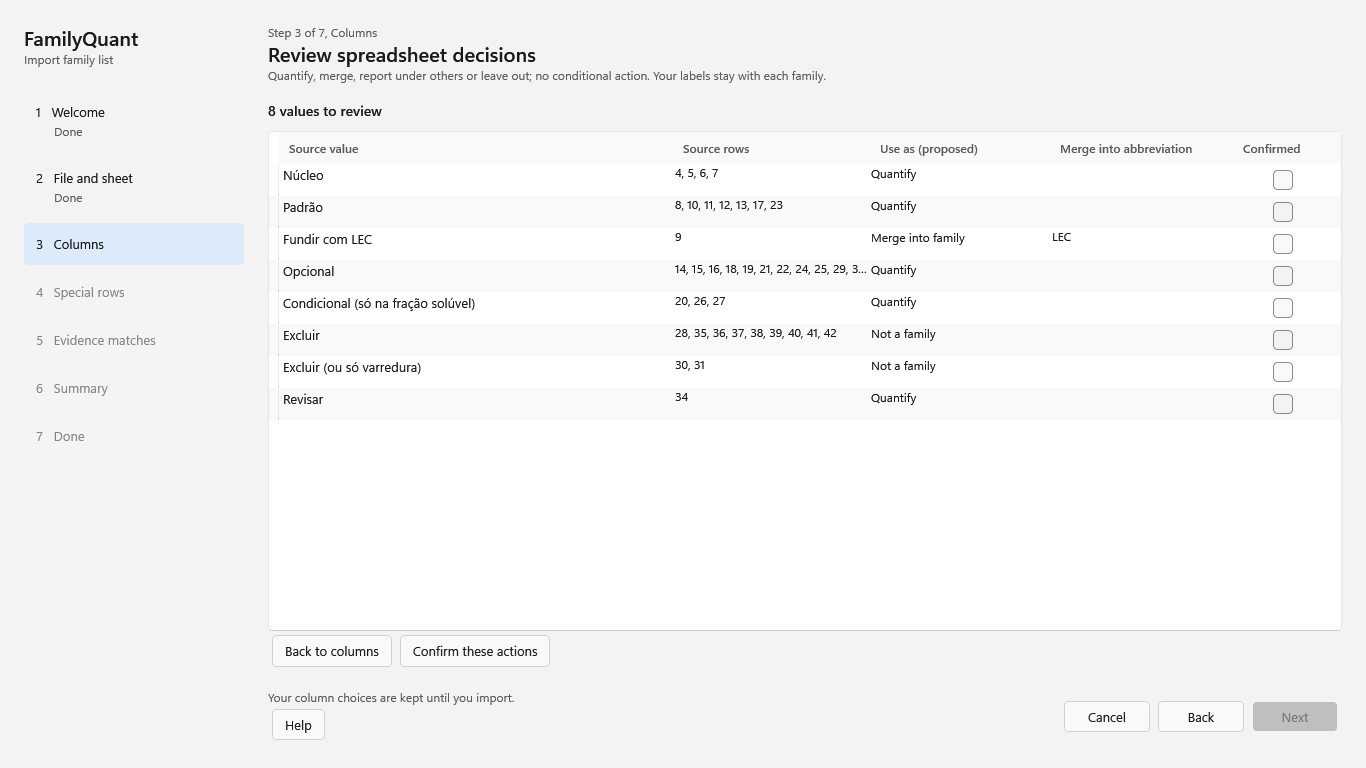
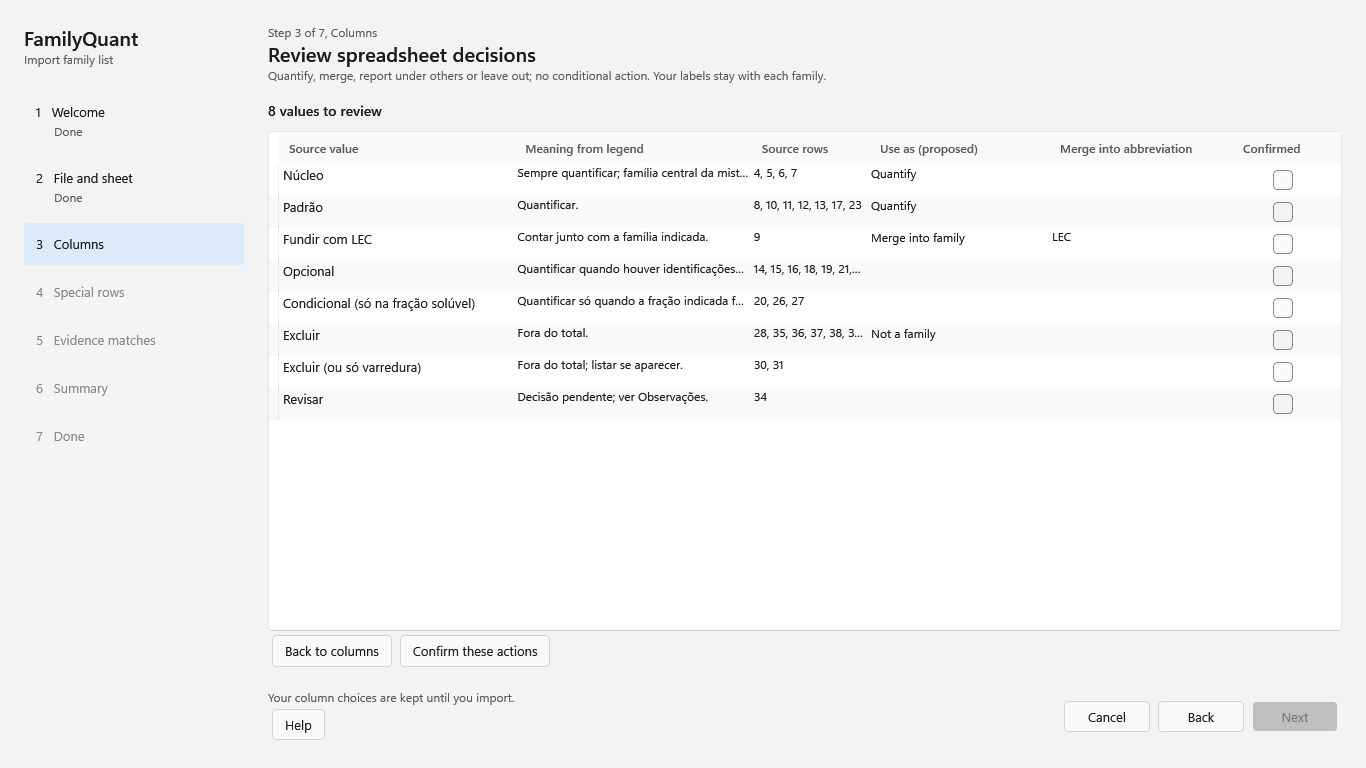
Z16a8 The import chapter follows the Z16a3 workbook pages, with their pictures taken
On fq/v2111-site after merging FQHome's approved Z16a3 ce9e0c6d. The capture now reads the example through the same
whole-workbook source as File > Import family list (FamilyListWorkbookCoreSource), so the pictures show what a user
sees on the six-sheet example.

What the wizard shows, and the chapter now says: File and sheet opens on Workbook sheets (Use as, Kept as, Review,
Why this role; Use selected family sheet; the line naming the family list and whether legend names and decision
meanings were read; Notes kept, Read kept notes, Kept notes preview). The legend's own text is kept with the three notes
sheets (four source notes). Sheet preview is the second tab. Because the legend's labels are the values of Decisao
FamilyQuant, that column and Sigla as the colour column are proposed for you, and Next opens Review spreadsheet
decisions at once: Meaning from legend beside each line; Nucleo and Padrao proposed as Quantify, Excluir as Not a family,
Fundir com LEC as Merge into family LEC; Opcional, Condicional, Excluir (ou so varredura) and Revisar left empty; nothing
confirmed. Back to columns shows the colours starting with the legend names (light turquoise as Nucleo), plain names
for the two colours the legend names twice. The decision-column question is now described for workbooks without such a
legend. Colour meanings are not shown on Columns, so the chapter no longer says they are.
[…]

diff --git a/FamilyQuant/FamilyListImportGuide.cs b/FamilyQuant/FamilyListImportGuide.cs
@@ -24,9 +24,10 @@ public static class FamilyListImportGuide
     public const string Title = "Import family list";
 
     // Z16a8 picture spots. The text below was written against the workbook contract (Z16a1, 8cf2a257) and FQHome's seam
-    // for Z16a3 and Z16a9, before those wizard pages landed. Every spot marked PICTURE Z16a8 (a new picture, its section
-    // has no image yet) or RETAKE Z16a8 (the page changes with the workbook) is taken again by --import-guide-screens on
-    // the merged wizard, and the words of that section are checked against what the page shows.
+    // for Z16a3 and Z16a9, before those wizard pages landed. File and sheet, Sheet preview, Columns and Reviewing decisions
+    // now follow the merged Z16a3 pages (ce9e0c6d) with their pictures taken. Every spot still marked PICTURE Z16a8 (a new
+    // picture, its section has no image yet) or RETAKE Z16a8 (the page changes with the workbook) is taken again by
+    // --import-guide-screens on the merged wizard, and the words of that section are checked against what the page shows.
     public static IReadOnlyList<FamilyListImportGuideSection> Sections { get; } = new[]
     {
         new FamilyListImportGuideSection("start", "Before you start", "", "", new[]
@@ -48,34 +49,30 @@ public static class FamilyListImportGuide
             "One press accepts everything on the page, and that press is your confirmation: nothing is set before it. To change a part, open it; each part takes you to its own page of the wizard, described below, and the other parts stay as proposed.",
             "Whatever the wizard is not sure of is left for you and marked, such as a decision label whose meaning is not clear or a colour the legend names twice; it never guesses. Anything it cannot place is listed plainly. A workbook of another shape, such as a single sheet, or a list with no legend and no decisions, is read the same way from its structure and shows only the parts it has.",
         }),
-        // RETAKE Z16a8 (Z16a3): the family sheet may now show under Sheet preview, beside Workbook sheets.
-        new FamilyListImportGuideSection("file", "2. File and sheet", "02-file-and-sheet.png", "The example's first sheet: a title and a subtitle above the column names in row 3.", new[]
+        // Z16a8 (Z16a3): the page opens on Workbook sheets when it has read a workbook; the picture is that tab on the example.
+        new FamilyListImportGuideSection("file", "2. File and sheet", "02-workbook-map.png", "Workbook sheets: the six sheets of the example, each with the role proposed for it.", new[]
         {
-            "Press Browse, or drop the workbook on the page, then choose the sheet that holds your families. FamilyQuant proposes the header row, the row with the column names; in the example it is row 3, below a title and a subtitle. If the proposal is wrong, type the right row number and press Read this header row.",
-            "The spreadsheet preview shows your sheet as it is, with its row numbers, column letters, merged titles, accents, line breaks and cell colours. Colours are source data and never decide anything by themselves. Select a cell and open Cell details to read its full text.",
-            "When the workbook has other sheets, the workbook map says what each one gives the import, as the next part explains. The workbook itself is never changed.",
+            "Press Browse, or drop the workbook on the page. FamilyQuant reads every sheet and opens on Workbook sheets: each sheet of the workbook, hidden ones too, with the role proposed for it under Use as: Family list, Colour legend, Subclass table or Notes. Kept as says what each sheet gives the import, such as Kept as source notes for a sheet of notes, and Why this role gives the reason, read from the sheet's shape, never from its name. Review shows Proposed, or Review role for a sheet the wizard is not sure of; check that one.",
+            "The line above the table names the family list, and the line below it says whether the legend's names and the meanings of the decision labels were read. To change a role, choose another under Use as; to take another sheet as the family list, select it and press Use selected family sheet. The proposal is read again with your choice, and the workbook and the project stay unchanged. When two sheets could each be the family list, the line says choose the family list and Next waits; the wizard never takes the first one for you.",
+            "A colour legend is a sheet whose first column carries the same cell colours as the family list, with the meaning of each colour beside it; when its labels are the values of one column, it also explains your decision labels. In the example, 6. Legenda names the colour of each decision and says what each decision means.",
+            "Sheets with no family rows, like the example's divergences, quantification rules and references, are notes, and the legend's own text is kept with them. Notes kept names them; Read kept notes shows their text in full, and Kept notes preview shows the start of it. They are imported with the panel as source notes, shown under Source notes in the panel editor and listed in the Methods of the report. They are never read as families or as rules.",
         }),
-        // PICTURE Z16a8 (Z16a3): 02-workbook-map.png, Workbook sheets on the example: six sheets with their roles and the three notes sheets kept.
-        new FamilyListImportGuideSection("map", "2. The workbook map", "", "", new[]
+        new FamilyListImportGuideSection("preview", "2. Sheet preview", "02-file-and-sheet.png", "The example's family list: a title and a subtitle above the column names in row 3.", new[]
         {
-            "Workbook sheets lists every sheet of the workbook, hidden ones too, with the role proposed for it under Use as: Family list, Colour legend, Subclass table or Notes. Kept as says what each sheet gives the import, and Why this role gives the reason, read from the sheet's shape. A sheet marked Review role is one the wizard is not sure of; check it.",
-            "To change a role, choose another under Use as. The proposal is read again with your choice, and the workbook and the project stay unchanged. When two sheets could each be the family list, the wizard asks you to choose one and Next waits; it never takes the first one for you.",
-            "A colour legend is a sheet whose first column carries the same cell colours as the family list, with the meaning of each colour beside it; the same legend can explain the decision labels when its words match them. In the example, 6. Legenda names the colour of each decision.",
-            "Sheets with no family rows, like the example's divergences, quantification rules and references, are notes. They are listed below the map as kept, with their original text; Read kept notes shows it in full. Notes are imported with the panel as source notes, shown in the panel editor and listed in the Methods of the report. They are never read as families or as rules.",
+            "Sheet preview shows the family list as it is, with its row numbers, column letters, merged titles, accents, line breaks and cell colours. Colours are source data and never decide anything by themselves. Select a cell and open Cell details to read its full text.",
+            "Sheet shows the family list and Header row the row with the column names; in the example it is row 3, below a title and a subtitle. If the proposal is wrong, type the right row number and press Read this header row. The workbook itself is never changed.",
         }),
-        // RETAKE Z16a8 (Z16a3): the colour categories start with the legend's names.
-        new FamilyListImportGuideSection("columns", "3. Columns", "03-columns.png", "Each meaning with the column proposed for it and an example from the sheet.", new[]
+        new FamilyListImportGuideSection("columns", "3. Columns", "03-columns.png", "Each meaning with the column proposed for it, and the colours named from the legend.", new[]
         {
             "For each meaning, choose the column of your sheet that holds it; an example from your sheet appears below each choice. Abbreviation and Family name are required. Other-language name, Notes, Pfam codes and Decision are optional, and every original column is kept anyway.",
-            "When no column is chosen for Decision and one column holds a few short labels repeated over many rows, the page can ask whether that column says what to do with each family; in the example it asks: Could Decisão FamilyQuant hold the family actions? It is only a question. Use this decision column chooses that column and opens its values for your review; until you press it, nothing is mapped.",
+            "When the legend's labels are the values written in one column, as in the example, that column is proposed for Decision, and Next on File and sheet opens its values for review at once, as the next part shows. Back to columns brings you here. Without such a legend, when no column is chosen for Decision and one column holds a few short labels repeated over many rows, the page can ask whether that column says what to do with each family, naming it: Could (the column's name) hold the family actions? It is only a question. Use this decision column chooses that column and opens its values for your review; until you press it, nothing is mapped.",
             "Without a Decision column every family is Quantify, so Next asks once: Quantify every family for this import? No keeps you on Columns. Your answer holds for this sheet until you change the Decision column.",
-            "When the sheet has coloured cells, Colour categories (optional) opens by itself. Choose the column whose colours mean something, like Sigla in the example: each colour is listed with its rows. When the workbook has a colour legend, each colour starts with the name the legend gives it, with its meaning beside it; in the example, light turquoise starts as Núcleo. A colour the legend does not name, or gives two names, is named for you with its plain name, such as light grey in the example, which the legend gives to two labels. Rename a category if you like; clearing a name brings the plain name back, so the colours never hold up Next. The category is kept as text with each family and shown in the Colour column of the Summary; it never decides what happens to a family.",
+            "When the sheet has coloured cells, Colour categories (optional) opens by itself. Choose the column whose colours mean something; each colour is listed under Source colour with its Source rows and its Category name. When the workbook has a colour legend, the column whose cells carry the legend's colours is chosen for you, Sigla in the example, and each colour starts with the name the legend gives it: light turquoise starts as Núcleo. A colour without a legend name, or with two, is named for you with its plain name, such as light grey in the example, which the legend gives to two labels. Rename a category if you like; clearing a name brings the plain name back, so the colours never hold up Next. The category is kept as text with each family and shown in the Colour column of the Summary; it never decides what happens to a family.",
         }),
-        // RETAKE Z16a8 (Z16a3): Meaning from legend beside each proposed action.
-        new FamilyListImportGuideSection("decisions", "3. Reviewing decisions", "03-columns-decisions.png", "One line per decision written in the sheet, with its rows and the proposed action.", new[]
+        new FamilyListImportGuideSection("decisions", "3. Reviewing decisions", "03-columns-decisions.png", "One line per decision written in the sheet, with its meaning from the legend and the proposed action; none is confirmed yet.", new[]
         {
-            "When you choose a Decision column, the page becomes Review spreadsheet decisions: one line for each different value written in that column, the rows that use it, and the proposed action: Quantify, Report under others, Not a family, or Merge into family with the abbreviation to merge into. The line under the title says it in short: " + FamilyListImportHelp.DecisionsSummary,
-            "When the workbook has a legend that explains the decision labels, as the example's does, Meaning from legend shows each label's meaning beside its action, and the proposal starts from it: a label that keeps a family is proposed as Quantify, one that leaves it out as Not a family, and one that joins it to another family as Merge into family with the abbreviation it names, like Fundir com LEC in the example. When the meaning is not clear, the action is left empty for you to choose. The meaning only helps you decide; each line is still your choice.",
+            "When a Decision column is chosen, the page becomes Review spreadsheet decisions: one line for each different value written in that column, the rows that use it under Source rows, and the action under Use as (proposed): Quantify, Report under others, Not a family, or Merge into family with the abbreviation under Merge into abbreviation. The line under the title says it in short: " + FamilyListImportHelp.DecisionsSummary,
+            "When the workbook's legend explains the labels, as the example's does, Meaning from legend shows each label's meaning (point at it to read it in full), and the proposed action starts from that meaning: in the example, Núcleo and Padrão are proposed as Quantify, Excluir as Not a family, and Fundir com LEC as Merge into family with LEC, the abbreviation it names. A meaning that is optional, conditional or still pending proposes nothing, so the action is left empty for you to choose: in the example, Opcional, Condicional (só na fração solúvel), Excluir (ou só varredura) and Revisar. The meaning only helps you decide; each line is still your choice, and none is confirmed for you.",
             "There is no conditional action. A condition written in the sheet, like Condicional (só na fração solúvel) in the example, is never turned into a rule; choose the action that fits now. The value written in your sheet stays with each family as its source label.",
             "A cell that already holds one of the program's own labels, Quantify, Report under others or Not a family, or Merge into followed by an abbreviation of your list, is confirmed at once. When every value is like that, there is nothing to review.",
             "Check each other line, change what is wrong, and press Confirm these actions. Next stays disabled until every value is confirmed, and changing an action or its abbreviation clears that line's Confirmed tick, so no proposal is accepted for you. Back to columns returns without confirming, and Review decision values opens the list again.",

diff --git a/FamilyQuant.Tests/Program.ImportGuideScreens.cs b/FamilyQuant.Tests/Program.ImportGuideScreens.cs
@@ -15,7 +15,9 @@ namespace FamilyQuant.Tests;
 // invented project, 1366 x 768, one picture per page (light by default, --dark for the website's dark set). The Workbook
 // box is shown with a generic documents path, because the real path holds this computer's temporary folder. Z12p2c1:
 // the Columns page with its decision-column question and the fills named as colour categories, and the decisions opened
-// through Use this decision column.
+// through Use this decision column. Z16a8: the wizard reads the whole example workbook through the same Core source as
+// File > Import family list (FamilyListWorkbookCoreSource), so File and sheet opens on Workbook sheets and the Columns
+// page starts the colours and the decision meanings from the example's legend.
 internal static partial class Program
 {
     [TestCommandTable]
@@ -58,7 +60,8 @@ internal static partial class Program
         var previousTheme = Themes.ThemeManager.Current;
         Themes.ThemeManager.Apply(dark ? Themes.AppTheme.Dark : Themes.AppTheme.Light);
         var curation = new CurationViewModel(file);
-        var model = new FamilyListImportViewModel(new FamilyListImportTransaction(curation), matcher: new FamilyListStoredEvidenceMatches(file));
+        var model = new FamilyListImportViewModel(new FamilyListImportTransaction(curation), matcher: new FamilyListStoredEvidenceMatches(file),
+            workbookSource: new FamilyListWorkbookCoreSource());
         var window = new FamilyListImportWindow(model, path => ExampleFamilyList.Write(path), PanelImportTemplate.Write)
         { Width = 1366, Height = 768, Left = -30000, Top = -30000, WindowStartupLocation = WindowStartupLocation.Manual,
             WindowStyle = WindowStyle.None, ResizeMode = ResizeMode.NoResize, ShowActivated = false, ShowInTaskbar = false };
@@ -79,21 +82,45 @@ internal static partial class Program
             // The real path holds this computer's temporary folder; the picture shows a generic documents path instead.
             var pathBox = (TextBox)window.FindName("WorkbookPathBox");
             pathBox.Text = @"C:\Users\you\Documents\example-family-list.xlsx";
+            // Z16a8: the six sheets of the example, each with its role; the three notes sheets and the legend's text are kept.
+            Check("guide: File and sheet opens on the workbook map of the six example sheets",
+                model.HasWorkbookMap && model.WorkbookSheets.Count == 6 && model.WorkbookSheets.Count(s => s.Role == PanelWorkbookSheetRole.Notes) == 3
+                && model.WorkbookSheets.Count(s => s.Role == PanelWorkbookSheetRole.FamilyList) == 1 && model.WorkbookSheets.Count(s => s.Role == PanelWorkbookSheetRole.ColorLegend) == 1
+                && model.WorkbookSheets.Count(s => s.Role == PanelWorkbookSheetRole.SubclassTable) == 1 && model.WorkbookSheets.All(s => s.Review == "Proposed")
+                && model.KeptNotes.Count == 4 && model.KeptNotesSummary.StartsWith("Notes kept: ", StringComparison.Ordinal)
+                && ((TabControl)window.FindName("WorkbookTabs")).SelectedItem == window.FindName("WorkbookMapTab"),
+                string.Join(", ", model.WorkbookSheets.Select(s => s.Name + "=" + s.Role + "/" + s.Review)) + "; " + model.KeptNotesSummary);
+            Shot("02-workbook-map");
+            ((TabControl)window.FindName("WorkbookTabs")).SelectedItem = window.FindName("SheetPreviewTab"); PumpDispatcher();
             Shot("02-file-and-sheet");
             Check("guide: the example opens on its sheet with header row 3", model.Page == 1 && model.Preview?.ProposedHeaderRow == 3);
             ((Button)window.FindName("ForwardButton")).RaiseEvent(new RoutedEventArgs(Button.ClickEvent)); PumpDispatcher();
-            // Z12p2c1: the abbreviation cells carry the example's fills, so they become colour categories with their plain names.
-            model.ColorColumn!.Header = model.ColorColumn.Headers.First(h => h == "Sigla"); PumpDispatcher();
-            Check("guide: the Columns page asks about the decision column and names each fill for her",
-                model.HasDecisionHint && model.DecisionHint.StartsWith("Decis", StringComparison.Ordinal)
-                && model.SourceColorChoices.Count > 0 && model.SourceColorChoices.All(c => c.Label == c.ColorName) && model.CanNext,
-                model.DecisionHint + "; " + string.Join(", ", model.SourceColorChoices.Select(c => c.ColorName + "=" + c.Label)));
-            Shot("03-columns");
-            ((Button)window.FindName("UseDecisionHintButton")).RaiseEvent(new RoutedEventArgs(Button.ClickEvent)); PumpDispatcher();
+            // Z16a8: the legend's labels are the values of Decisão FamilyQuant, so that column is proposed as Decision and Next
+            // opens its values at once, each with its meaning from the legend; nothing is confirmed, and unclear meanings stay empty.
+            Check("guide: Next opens the eight decision values of the legend's column, each with its meaning, none confirmed",
+                model.Page == 2 && model.ReviewingDecisions && model.Columns.Single(c => c.Role == PanelImportFields.Decision).Header == "Decisão FamilyQuant"
+                && model.Decisions.Count == 8 && model.Decisions.All(d => d.Meaning.Length > 0 && !d.Confirmed) && model.Decisions.Any(d => d.Decision == null)
+                && model.Decisions.Any(d => d.Decision == FamilyPanelDecision.MergeIntoAnotherFamily && d.MergeTarget == "LEC") && !model.CanNext,
+                string.Join("; ", model.Decisions.Select(d => d.Source + " -> " + (d.Decision?.ToString() ?? "(empty)") + " " + d.MergeTarget)));
             Shot("03-columns-decisions");
-            Check("guide: Use this decision column opens eight decision values to review",
-                model.Columns.Single(c => c.Role == PanelImportFields.Decision).Header == model.DecisionHint && model.Decisions.Count == 8 && model.ReviewingDecisions);
+            ((Button)WalkTree(window).OfType<Button>().First(b => b.Content as string == "Back to columns")).RaiseEvent(new RoutedEventArgs(Button.ClickEvent)); PumpDispatcher();
+            // Z12p2c1: the abbreviation cells carry the example's fills, so they become colour categories. Z16a8: each starts
+            // with the legend's name, or with its plain name when the legend gives that colour two names.
+            if (model.ColorColumn!.Header != "Sigla") model.ColorColumn.Header = model.ColorColumn.Headers.First(h => h == "Sigla");
+            PumpDispatcher();
+            Check("guide: back on Columns, each fill starts with the legend's name, or its plain name when the legend names it twice",
+                !model.ReviewingDecisions && model.SourceColorChoices.Count == 6 && model.SourceColorChoices.Count(c => c.Label != c.ColorName) == 4
+                && model.SourceColorChoices.Any(c => c.ColorName == "light turquoise" && c.Label == "Núcleo")
+                && model.SourceColorChoices.Any(c => c.ColorName == "light grey" && c.Label == "light grey"),
+                string.Join(", ", model.SourceColorChoices.Select(c => c.ColorName + "=" + c.Label)));
+            Shot("03-columns");
+            ((Button)WalkTree(window).OfType<Button>().First(b => b.Content as string == "Review decision values")).RaiseEvent(new RoutedEventArgs(Button.ClickEvent)); PumpDispatcher();
+            // Her choices for the four labels the legend leaves empty, as a reader of this example would make them: the
+            // families out of the total stay out, and the optional, conditional and pending ones are kept for now.
+            foreach (var open in model.Decisions.Where(d => d.Decision == null))
+                open.Decision = open.Meaning.StartsWith("Fora do total", StringComparison.Ordinal) ? FamilyPanelDecision.NotAFamily : FamilyPanelDecision.Quantify;
             model.ConfirmDecisions();
+            Check("guide: every decision value is confirmed only by Confirm these actions", model.Decisions.All(d => d.Confirmed) && model.CanNext, model.Status);
             FinishReviewWork(async () => { await model.NextAsync(); }); PumpDispatcher();
             model.SelectedSpecialRow = model.SpecialRows.Single(r => r.SeveralNames && r.Parts.Count == 4 && r.Blocking);
             Shot("04-special-rows");
@@ -122,7 +149,8 @@ internal static partial class Program
             Shot("06-summary");
             FinishReviewWork(async () => { await model.NextAsync(); }); PumpDispatcher();
             Shot("07-done");
-            Check("guide: imported", model.Imported && file.FamilyPanel?.Name == "Example family list");
+            Check("guide: imported, with the three notes sheets and the legend's text kept as source notes", model.Imported && file.FamilyPanel?.Name == "Example family list"
+                && file.FamilyPanel.SourceNotes.Count == 4);
             Check("guide: the generated workbook is written under the output folder", Path.GetFullPath(workbook)
                 .StartsWith(Path.GetFullPath(output).TrimEnd(Path.DirectorySeparatorChar) + Path.DirectorySeparatorChar, StringComparison.OrdinalIgnoreCase), workbook);
         }

diff --git a/FamilyQuant.Tests/Program.FamilyListImportGuide.cs b/FamilyQuant.Tests/Program.FamilyListImportGuide.cs
@@ -42,7 +42,7 @@ internal static partial class Program
         Check("the Columns page has its decision review and Special rows its repeated abbreviation", sections.Any(s => s.Key == "decisions") && sections.Any(s => s.Key == "duplicate"));
         // Z16a8 (W21, D81): a workbook with several sheets, read at once, with nothing set before her one press.
         Check("the chapter covers a workbook with several sheets: the page that reads it all, the map, the subclass table",
-            new[] { "workbook", "map", "subclasses" }.All(key => sections.Any(s => s.Key == key))
+            new[] { "workbook", "file", "preview", "subclasses" }.All(key => sections.Any(s => s.Key == key))
             && text.Contains("One press accepts everything on the page", StringComparison.Ordinal) && text.Contains("nothing is set before it", StringComparison.Ordinal)
             && text.Contains("it never guesses", StringComparison.Ordinal) && text.Contains("never by their names", StringComparison.Ordinal));
         Check("the chapter keeps every workbook proposal her choice: legend meanings, her Pfam domains, subclass rules, notes",
@@ -55,7 +55,7 @@ internal static partial class Program
             try { var image = new BitmapImage(FamilyListImportGuide.ImageUri(s)); return (Section: s, image.PixelWidth, image.PixelHeight); }
             catch (Exception ex) when (ex is IOException or NotSupportedException) { return (Section: s, PixelWidth: 0, PixelHeight: 0); }
         }).ToList();
-        Check("every wizard page has its picture inside the program, at 1366 x 768", pictured.Count == 9
+        Check("every wizard page has its picture inside the program, at 1366 x 768", pictured.Count == 10
             && loaded.All(p => p.PixelWidth == 1366 && p.PixelHeight == 768), string.Join(", ", loaded.Where(p => p.PixelWidth != 1366).Select(p => p.Section.Image)));
         Check("embedded guide pictures match the current native source captures", pictured.All(section =>
         {
@@ -73,6 +73,10 @@ internal static partial class Program
             "Use this decision column", "Match stored names", "Apply grouping", "Apply panel", "Review spreadsheet decisions",
             "Colour categories (optional)", "Colour", "Group by evidence", "Read database and scope", "Update proposal", "Place outside matches by hand",
             "Import family list",
+            // Z16a8 (Z16a3): the workbook map and the legend meanings.
+            "Workbook sheets", "Use as", "Kept as", "Why this role", "Review role", "Proposed", "Family list", "Colour legend", "Subclass table", "Notes",
+            "Use selected family sheet", "Read kept notes", "Kept notes preview", "Kept as source notes", "Sheet preview", "Source notes", "Meaning from legend",
+            "Use as (proposed)", "Merge into abbreviation", "Source colour", "Source rows", "Category name",
         };
         Check("the chapter names the wizard's controls and choices with the program's own words", labels.All(text.Contains) && text.Contains("File > Save", StringComparison.Ordinal),
             string.Join(", ", labels.Where(l => !text.Contains(l))));
@@ -80,7 +84,7 @@ internal static partial class Program
         string repository = GoldenNumbers.FindRepository();
         string program = string.Concat(new[] { "FamilyListImportWindow.xaml", "FamilyListImportViewModel.cs", "FamilyListImportViewModel.Rows.cs",
                 "FamilyListImportViewModel.Commit.cs", "FamilyListImportModels.cs", "SuperClusterPreviewWindow.xaml", "PanelEditorWindow.xaml",
-                "MainWindow.xaml", "ClusterGenerationControl.xaml" }
+                "MainWindow.xaml", "ClusterGenerationControl.xaml", "FamilyListImportWorkbookModels.cs", "FamilyListImportViewModel.Workbook.cs" }
             .Select(name => File.ReadAllText(Path.Combine(repository, "FamilyQuant", name))));
         Check("every control the chapter names is a label in the program's sources", labels.All(l => program.Contains("\"" + l + "\"", StringComparison.Ordinal)
             || program.Contains("\"" + l + "...\"", StringComparison.Ordinal)),
@@ -124,7 +128,7 @@ internal static partial class Program
                     Check(theme + " it opens at a size that fits a 1024 x 768 screen", window.Width <= 1024 && window.Height <= 728);
                     if (theme == Themes.AppTheme.Light) CheckTooltipCoverage("Import guide window", (FrameworkElement)window.Content);
                     ((Button)window.FindName("nextButton")).RaiseEvent(new RoutedEventArgs(Button.ClickEvent)); PumpDispatcher();
-                    Check(theme + " Next moves to the following part", model.Current.Key == "map" && model.CanPrevious);
+                    Check(theme + " Next moves to the following part", model.Current.Key == "preview" && model.CanPrevious);
                     model.Current = model.Sections.Single(s => s.Key == "later"); PumpDispatcher();
                     Check(theme + " a part without a picture hides the picture frame", !model.HasPicture);
                     model.Current = model.Sections[^1]; PumpDispatcher();

diff --git a/docs/INDEX.md b/docs/INDEX.md
@@ -233,7 +233,7 @@ These commands create native WPF client captures or labelled synthetic fixtures,
 | `--homology-results-screens <output-dir>` | [Program.HomologyResultScreens.cs](../FamilyQuant.Tests/Program.HomologyResultScreens.cs) |
 | `--secondary-screens <output-dir>` | [Program.SecondaryWindows.cs](../FamilyQuant.Tests/Program.SecondaryWindows.cs) |
 | `--grouping-review-screens <output-dir> [evidence.fcf]` | [GroupingReviewScreens.cs](../FamilyQuant.Tests/GroupingReviewScreens.cs); merged keyword/evidence/architecture review captures |
-| `--import-guide-screens <output-dir> [--dark]` | [Program.ImportGuideScreens.cs](../FamilyQuant.Tests/Program.ImportGuideScreens.cs); the nine Import family list wizard pages at 1366 x 768 for the Help chapter and the website, on the neutral example list with an invented project; the workbook it imports is written under the output folder |
+| `--import-guide-screens <output-dir> [--dark]` | [Program.ImportGuideScreens.cs](../FamilyQuant.Tests/Program.ImportGuideScreens.cs); the ten Import family list wizard pictures at 1366 x 768 for the Help chapter and the website, on the neutral six-sheet example workbook read through the program's whole-workbook source (Workbook sheets, legend names and meanings) with an invented project; the workbook it imports is written under the output folder |
 | `--logo-assets <output-dir> [--preview=<preview.png>]` | [LogoAssets.cs](../FamilyQuant.Tests/LogoAssets.cs); target scratch before replacing tracked assets |
 | `--shell-save-smoke <input.fcf> <output.fqproj>` | [Program.ShellSaving.cs](../FamilyQuant.Tests/Program.ShellSaving.cs); verified curation-only persistence, no RAW reproduction |
 | `--evidence-recipe-replay-check <recipe-bearing.fcf>` | [Program.ProteinDomains.cs](../FamilyQuant.Tests/Program.ProteinDomains.cs) |
